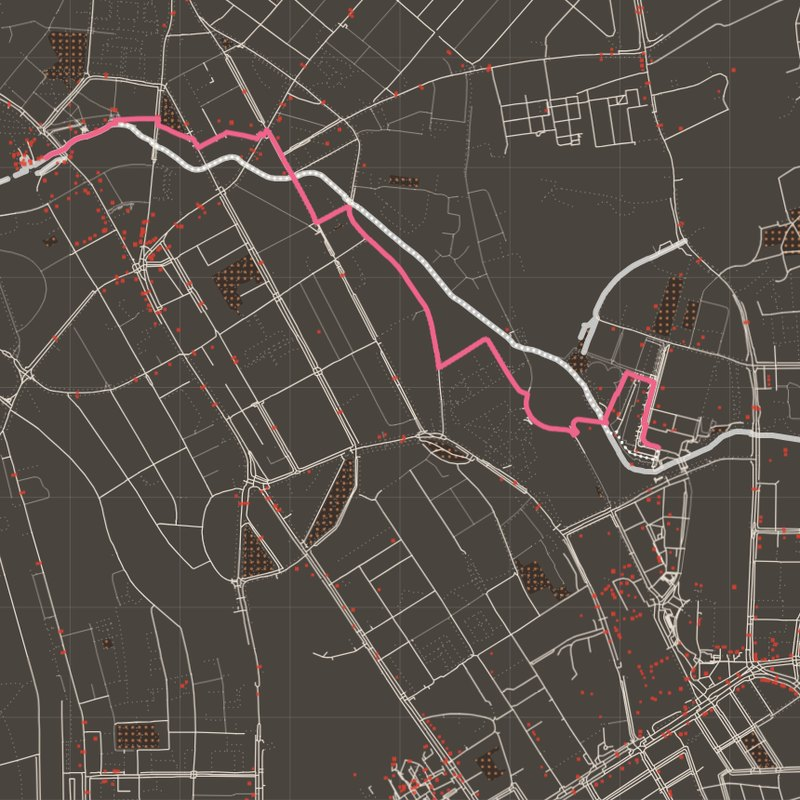
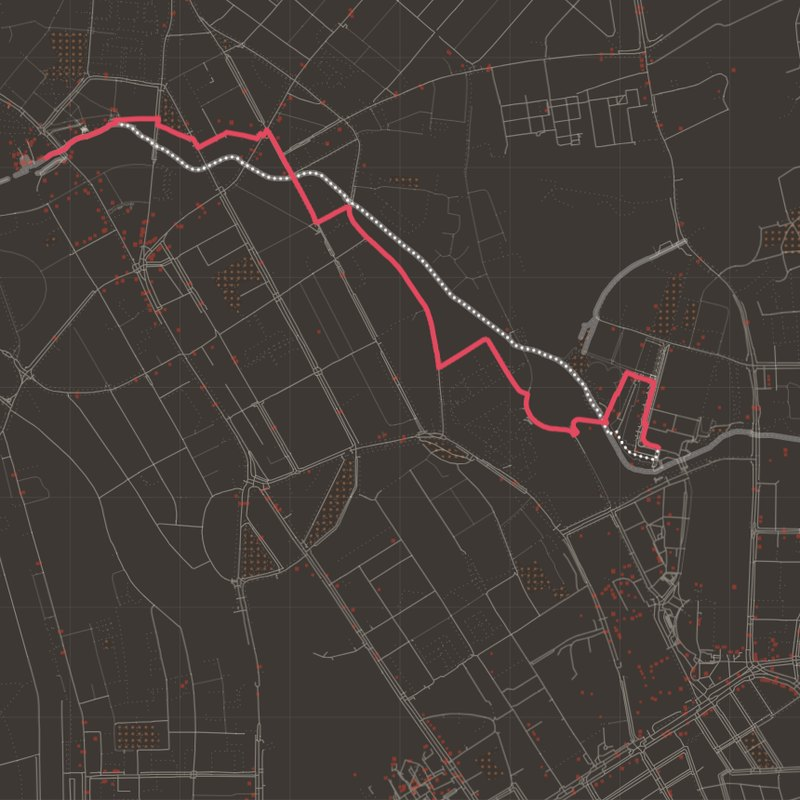
Night Walk: quieter background, dusty red-pink route
Claude-Session: https://claude.ai/code/session_01CpfEjaV7EbxyVQsHwU1V2x

diff --git a/nightwalk/index.html b/nightwalk/index.html
@@ -8,7 +8,7 @@
 <style>
 @font-face{font-family:"Inter Tight";font-weight:100 900;font-display:swap;src:url(../fonts/inter-tight-latin-wght-normal.woff2) format("woff2-variations")}
 @font-face{font-family:"Roboto Mono";font-weight:100 700;font-display:swap;src:url(../fonts/roboto-mono-latin-wght-normal.woff2) format("woff2-variations")}
-:root{--ink:#ECECEC;--muted:#8B8B8B;--hair:#343434;--red:#E0412F;--pink:#F0648A;--salmon:#E8785E;--taupe:#4A443F;--rose:#D9536A;--paper:#1B1B1B;--tint:#151517;--lamp:#ECECEC;color-scheme:dark;--f:"Inter Tight","Helvetica Neue",Arial,sans-serif;--m:"Roboto Mono",ui-monospace,Menlo,monospace}
+:root{--ink:#ECECEC;--muted:#8B8B8B;--hair:#343434;--red:#E0412F;--pink:#E3495F;--salmon:#E8785E;--taupe:#4A443F;--rose:#D9536A;--paper:#1B1B1B;--tint:#151517;--lamp:#ECECEC;color-scheme:dark;--f:"Inter Tight","Helvetica Neue",Arial,sans-serif;--m:"Roboto Mono",ui-monospace,Menlo,monospace}
 *{box-sizing:border-box}html,body{margin:0;height:100%}
 body{font:400 15px/1.5 var(--f);color:var(--ink);background:var(--paper);-webkit-font-smoothing:antialiased}
 .app{display:grid;grid-template-columns:420px minmax(0,1fr);height:100vh;height:100dvh}
@@ -137,7 +137,7 @@ input[type=range]{accent-color:var(--lamp)}
 .map{background:#1B1B1B}
 .cmp .safe .lab,.cmp .safe b{color:var(--pink)!important;text-shadow:none}
 .why li::before{color:var(--pink)}
-.legend .red{background:linear-gradient(transparent 0 4px,#F0648A 4px 9px,transparent 9px)!important}
+.legend .red{background:linear-gradient(transparent 0 4px,#E3495F 4px 9px,transparent 9px)!important}
 .legend .rose{background:#E0412F!important}
 .legend .litst{background:linear-gradient(transparent 0 5px,#EFE6D8 5px 7px,transparent 7px)!important}
 .legend .darkst{background:radial-gradient(circle,rgba(239,230,216,.6) 1px,transparent 1.4px) 0 50%/5px 13px repeat-x!important}
@@ -451,7 +451,7 @@ function setupMap(){
   const ax=G.V[A][0],ay=G.V[A][1];let dmax=1;G.E.forEach(e=>{const v=G.V[e[0]];dmax=Math.max(dmax,Math.hypot(v[0]-ax,v[1]-ay))});
   const NB=14,bins=[0,1].map(()=>Array.from({length:NB},()=>[])),dark=[];
   G.E.forEach(e=>{const v=G.V[e[0]],k=Math.min(NB-1,Math.floor(Math.hypot(v[0]-ax,v[1]-ay)/dmax*NB));if(e[3]>=.99)bins[0][k].push(epath(e));else if(e[3]>=.8)bins[1][k].push(epath(e));else dark.push(epath(e))});
-  const lamps=bins.map((bb,c)=>bb.map((b,k)=>b.length?`<path class="lamp" stroke-width="${c?1:1.3}" stroke-opacity="${c?.5:.95}" style="animation-delay:${(.2+k*.1).toFixed(2)}s" d="${b.join("")}"/>`:"").join("")).join("");
+  const lamps=bins.map((bb,c)=>bb.map((b,k)=>b.length?`<path class="lamp" stroke-width="${c?1:1.2}" stroke-opacity="${c?.22:.42}" style="animation-delay:${(.2+k*.1).toFixed(2)}s" d="${b.join("")}"/>`:"").join("")).join("");
   const canal=G.E.filter(e=>/canal/i.test(e[10]));
   const act=(G.act||[]).map(([x,y,w])=>{const r=2+w*2.4;return `M${(x-r).toFixed(0)} ${(-y-r).toFixed(0)}h${2*r}v${2*r}h${-2*r}z`}).join("");
   const grid=[];for(let x=Math.ceil(FR[0]/250)*250;x<FR[0]+FR[2];x+=250)grid.push(`M${x} ${FR[1]}V${FR[1]+FR[3]}`);for(let y=Math.ceil(FR[1]/250)*250;y<FR[1]+FR[3];y+=250)grid.push(`M${FR[0]} ${y}H${FR[0]+FR[2]}`);
@@ -460,14 +460,14 @@ function setupMap(){
     <pattern id="wdots" width="9" height="9" patternUnits="userSpaceOnUse"><circle cx="4.5" cy="4.5" r="2" fill="#fff"/></pattern>
     <clipPath id="clip"><rect x="${FR[0]}" y="${FR[1]}" width="${FR[2]}" height="${FR[3]}"/></clipPath></defs>
   <g id="world"><g clip-path="url(#clip)">
-  <rect x="${FR[0]}" y="${FR[1]}" width="${FR[2]}" height="${FR[3]}" fill="#4A443F"/>
-  <path d="${pk}" fill="url(#forest)" stroke="none"/>
+  <rect x="${FR[0]}" y="${FR[1]}" width="${FR[2]}" height="${FR[3]}" fill="#3D3834"/>
+  <path d="${pk}" fill="url(#forest)" fill-opacity=".55" stroke="none"/>
   
-  <path d="${canal.map(epath).join("")}" fill="none" stroke="#C4C4C2" stroke-width="13" stroke-linecap="round" stroke-linejoin="round"/>
-  <path d="${grid.join("")}" stroke="#ffffff" stroke-opacity=".12" stroke-width="1" vector-effect="non-scaling-stroke" fill="none"/>
-  <path d="${dark.join("")}" fill="none" stroke="#EFE6D8" stroke-opacity=".3" stroke-width="1.5" stroke-dasharray="0.01 5" stroke-linecap="round" style="vector-effect:non-scaling-stroke"/>
+  <path d="${canal.map(epath).join("")}" fill="none" stroke="#C4C4C2" stroke-opacity=".38" stroke-width="13" stroke-linecap="round" stroke-linejoin="round"/>
+  <path d="${grid.join("")}" stroke="#ffffff" stroke-opacity=".07" stroke-width="1" vector-effect="non-scaling-stroke" fill="none"/>
+  <path d="${dark.join("")}" fill="none" stroke="#EFE6D8" stroke-opacity=".18" stroke-width="1.4" stroke-dasharray="0.01 5" stroke-linecap="round" style="vector-effect:non-scaling-stroke"/>
   <g id="lit" fill="none" stroke="#EFE6D8" stroke-linecap="round" stroke-linejoin="round">${lamps}</g>
-  <path id="actp" d="${act}" fill="#E0412F" fill-opacity=".85"/>
+  <path id="actp" d="${act}" fill="#E0412F" fill-opacity=".45"/>
   </g>
   <g id="lensg"></g><g id="cityg"></g><g id="routes"></g></g>
   <rect x="${FR[0]}" y="${FR[1]}" width="${FR[2]}" height="${FR[3]}" fill="none" stroke="#9A9590" stroke-width="1" vector-effect="non-scaling-stroke"/><path d="${tick.join("")}" stroke="#9A9590" stroke-width="1" vector-effect="non-scaling-stroke"/>
@@ -519,7 +519,7 @@ function drawMarks(){
   let frl="";if(FR){for(let x=Math.ceil(FR[0]/500)*500;x<FR[0]+FR[2]-60;x+=500)frl+=fl(x,FR[1]-20*s,(G.origin[1]+x/G.kx).toFixed(3)+"°","middle");for(let y=Math.ceil(FR[1]/500)*500;y<FR[1]+FR[3]-40;y+=500)frl+=`<text transform="translate(${FR[0]-20*s} ${y}) rotate(-90) scale(${s})" font-family="Roboto Mono, monospace" font-size="10" fill="#9A9590" text-anchor="middle">${(G.origin[0]-y/G.ky).toFixed(3)}°</text>`}
   drawCalls(s);
   const lab=Object.entries(G.stations).filter(([n])=>!/Waterbus|Cruises|^London King's Cross$|^Euston$|^St Pancras International$/.test(n)).filter(([n,p])=>[A,B].every(v=>Math.hypot(G.V[v][0]-p[0],G.V[v][1]-p[1])>60*s)).map(([n,p])=>`<g transform="translate(${p[0]} ${-p[1]}) scale(${s})"><circle r="3" fill="#fff"/><text x="8" y="4" font-family="Roboto Mono, monospace" font-size="10.5" font-weight="600" letter-spacing=".05em" fill="#fff">${n.replace("London ","").toUpperCase()}</text></g>`).join("");
-  $("#marks").innerHTML=frl+lab+m(A,"A","#ECECEC","#0B0B0C")+m(B,"B","#F0648A","#1B1B1B");
+  $("#marks").innerHTML=frl+lab+m(A,"A","#ECECEC","#0B0B0C")+m(B,"B","#E3495F","#1B1B1B");
 }
 function toMap(e){const r=svg.getBoundingClientRect(),s=Math.max(vb[2]/r.width,vb[3]/r.height),ox=vb[0]+(vb[2]-r.width*s)/2,oy=vb[1]+(vb[3]-r.height*s)/2;return [ox+(e.clientX-r.left)*s,-(oy+(e.clientY-r.top)*s)]}
 function zoom(f,c){const cx=c?c[0]:vb[0]+vb[2]/2,cy=c?-c[1]:vb[1]+vb[3]/2;const w=Math.min(base[2]*1.5,Math.max(250,vb[2]*f)),k=w/vb[2];vb=[cx-(cx-vb[0])*k,cy-(cy-vb[1])*k,vb[2]*k,vb[3]*k];setVB()}
@@ -533,7 +533,7 @@ function draw(){
   if(res.shortest)h+=`<path d="${pathOf(res.shortest)}" fill="none" stroke="#FFFFFF" stroke-width="3.2" stroke-dasharray="0.01 6.5" stroke-linecap="round"/>`;
   res.own.forEach((r,i)=>{if(r&&showW)h+=`<path d="${pathOf(r)}" fill="none" stroke="${WALKERS[i].col}" stroke-opacity="${focus===null?.9:focus===i?1:.15}" stroke-width="${focus===i?3.5:2.2}" vector-effect="non-scaling-stroke"/>`});
   if(user)h+=`<path d="${pathOf(user)}" fill="none" stroke="#FFFFFF" stroke-width="3.5" vector-effect="non-scaling-stroke"/>`;
-  if(mainR())h+=`<path d="${pathOf(mainR())}" fill="none" stroke="#F0648A" stroke-width="${focus===null?5.5:3}" stroke-opacity="${focus===null?1:.6}" stroke-linecap="round" stroke-linejoin="round" vector-effect="non-scaling-stroke"/>`;
+  if(mainR())h+=`<path d="${pathOf(mainR())}" fill="none" stroke="#E3495F" stroke-width="${focus===null?5.5:3}" stroke-opacity="${focus===null?1:.6}" stroke-linecap="round" stroke-linejoin="round" vector-effect="non-scaling-stroke"/>`;
   g.innerHTML=h;
   drawMarks();
 }
